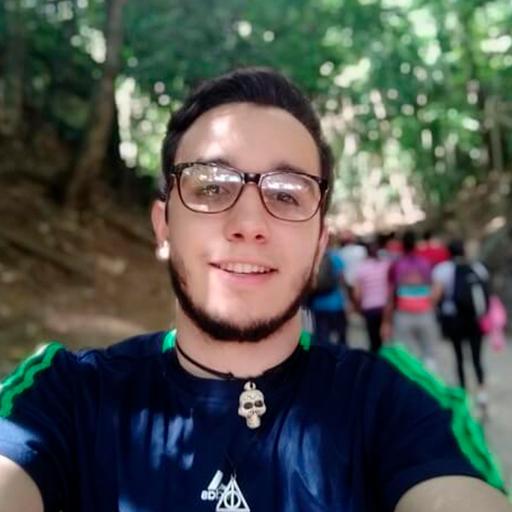
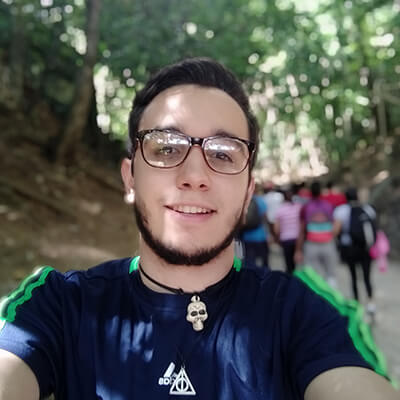
Fixing SEO issues and image from index

diff --git a/src/components/SEO.jsx b/src/components/SEO.jsx
@@ -33,8 +33,10 @@ function SEO({ description, lang, meta, title, isTemplate }) {
       title={title}
       titleTemplate={
         isTemplate
-          ? `%s | ${site.siteMetadata.title}`
-          : "%s | @danestves"
+          ? `${title} | ${site.siteMetadata.title}`
+          : `${
+              title.length > 50 ? `${title.substr(0, 53)}...` : title
+            } | @danestves`
       }
       meta={[
         {
@@ -43,7 +45,11 @@ function SEO({ description, lang, meta, title, isTemplate }) {
         },
         {
           property: `og:title`,
-          content: title,
+          content: isTemplate
+            ? `${title} | ${site.siteMetadata.title}`
+            : `${
+                title.length > 50 ? `${title.substr(0, 53)}...` : title
+              } | @danestves`,
         },
         {
           property: `og:description`,
@@ -67,7 +73,7 @@ function SEO({ description, lang, meta, title, isTemplate }) {
         },
         {
           property: `og:url`,
-          content: window.location.href
+          content: window.location.href,
         },
         {
           name: `twitter:card`,
@@ -79,7 +85,11 @@ function SEO({ description, lang, meta, title, isTemplate }) {
         },
         {
           name: `twitter:title`,
-          content: title,
+          content: isTemplate
+            ? `${title} | ${site.siteMetadata.title}`
+            : `${
+                title.length > 50 ? `${title.substr(0, 53)}...` : title
+              } | @danestves`,
         },
         {
           name: `twitter:description`,
@@ -91,7 +101,11 @@ function SEO({ description, lang, meta, title, isTemplate }) {
         },
         {
           name: `twitter:image:alt`,
-          content: title,
+          content: isTemplate
+            ? `${title} | ${site.siteMetadata.title}`
+            : `${
+                title.length > 50 ? `${title.substr(0, 53)}...` : title
+              } | @danestves`,
         },
       ].concat(meta)}
     />

diff --git a/src/pages/index.js b/src/pages/index.js
@@ -1,10 +1,10 @@
 import React from "react"
 import { graphql } from "gatsby"
 import { TransitionLink as Link } from "gatsby-plugin-transition-link/components/TransitionLink"
+import Img from "gatsby-image"
 
 import { Layout, SEO, Services } from "../components"
 import { InterfaceIcon, DesignSystemIcon } from "../icons"
-import Profile from "../images/profile.jpg"
 
 const IndexPage = ({ data }) => (
   <Layout>
@@ -44,12 +44,11 @@ const IndexPage = ({ data }) => (
       </div>
 
       <div className="order-1 w-full md:w-2/5 md:order-2">
-        <img
-          src={Profile}
+        <Img
+          fluid={data.profile.childImageSharp.fluid}
           alt="Daniel Esteves"
-          className="block object-cover object-center mx-auto rounded-full shadow-2xl transition-all transition-250 profile-photo"
+          className="block object-cover object-center max-w-sm mx-auto rounded-full shadow-2xl transition-all transition-250 profile-photo"
         />
-        {/* <Coding className="w-64 h-64 mx-auto drop-shadow" /> */}
       </div>
     </div>
 
@@ -112,6 +111,14 @@ const IndexPage = ({ data }) => (
 
 export const query = graphql`
   query Services {
+    profile: file(relativePath: { eq: "profile.jpg" }) {
+      childImageSharp {
+        fluid(maxWidth: 400, maxHeight: 400) {
+          ...GatsbyImageSharpFluid
+        }
+      }
+    }
+
     allStrapiSkills {
       nodes {
         icon

diff --git a/src/templates/portafolio.js b/src/templates/portafolio.js
@@ -32,6 +32,16 @@ export default ({ data }) => {
             content: window.location.href,
           },
           {
+            name: "date",
+            content: portfolio.createdAt,
+            schema: "YYYY-MM-DD",
+          },
+          {
+            name: "identifier",
+            content: "0-2345-6634-6",
+            scheme: "ISBN",
+          },
+          {
             property: "og:image",
             content: portfolio.ogCover.publicURL,
           },
@@ -126,6 +136,7 @@ export const query = graphql`
         name
       }
       url
+      createdAt(formatString: "YYYY-MM-DD")
     }
   }
 `

diff --git a/src/templates/blog.js b/src/templates/blog.js
@@ -104,6 +104,16 @@ export default ({ data }) => {
             content: window.location.href,
           },
           {
+            name: "date",
+            content: blog.createdAt,
+            schema: "YYYY-MM-DD",
+          },
+          {
+            name: "identifier",
+            content: "0-2345-6634-6",
+            scheme: "ISBN",
+          },
+          {
             property: "og:image",
             content: blog.ogCover.publicURL,
           },
@@ -307,6 +317,7 @@ export const query = graphql`
         name
       }
       content
+      createdAt(formatString: "YYYY-MM-DD")
     }
   }
 `

diff --git a/src/components/Layout.jsx b/src/components/Layout.jsx
@@ -21,7 +21,7 @@ const Layout = ({ children }) => {
             "bg-gray-200 dark:bg-gray-900 dark:text-white transition-all transition-250",
         }}
       />
-      <main className="container px-5 mx-auto md:px-0">{children}</main>
+      <main className="container px-5 mx-auto xl:px-0">{children}</main>
     </>
   )
 }

diff --git a/src/components/styles.css b/src/components/styles.css
@@ -10,11 +10,6 @@ body {
 
 @tailwind components;
 
-.profile-photo {
-  max-height: 400px;
-  width: 400px;
-}
-
 @media screen and (max-width: 640px) {
   .profile-photo {
     width: 300px;
